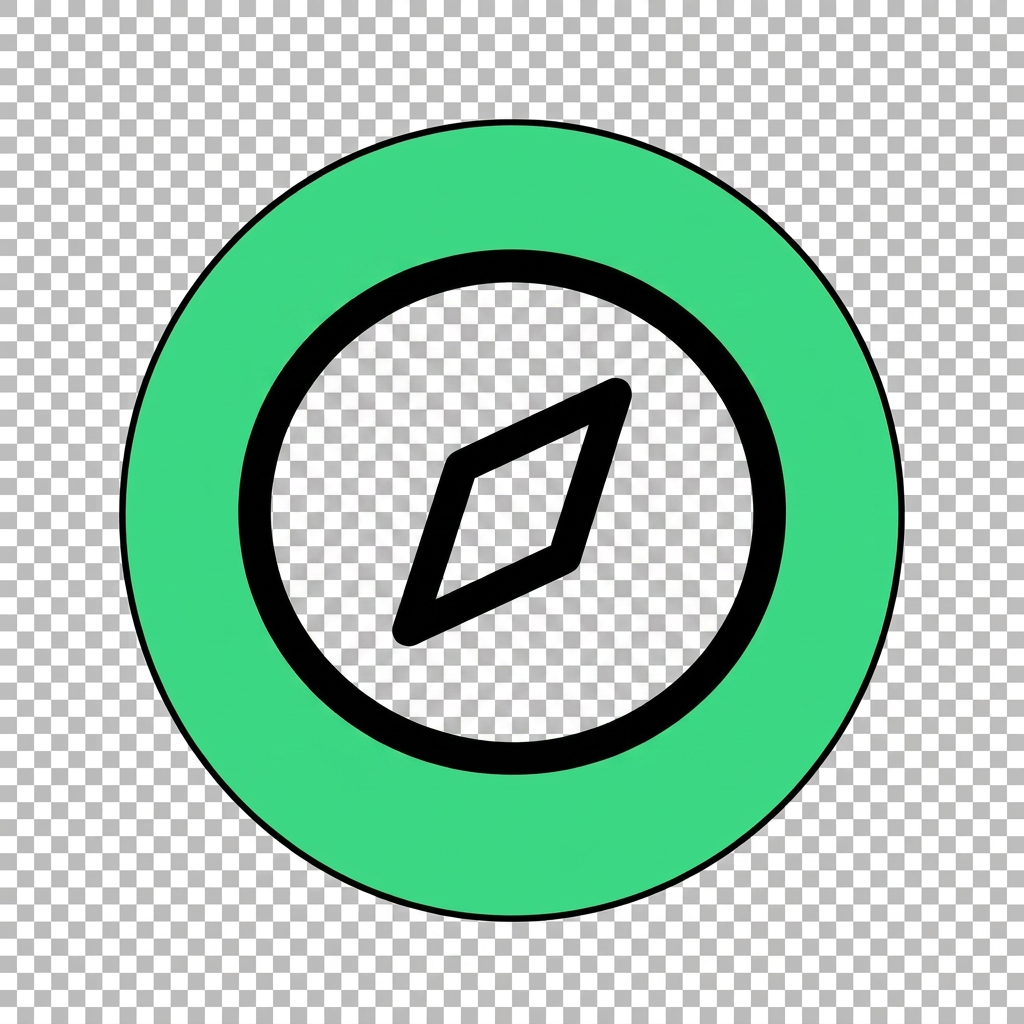
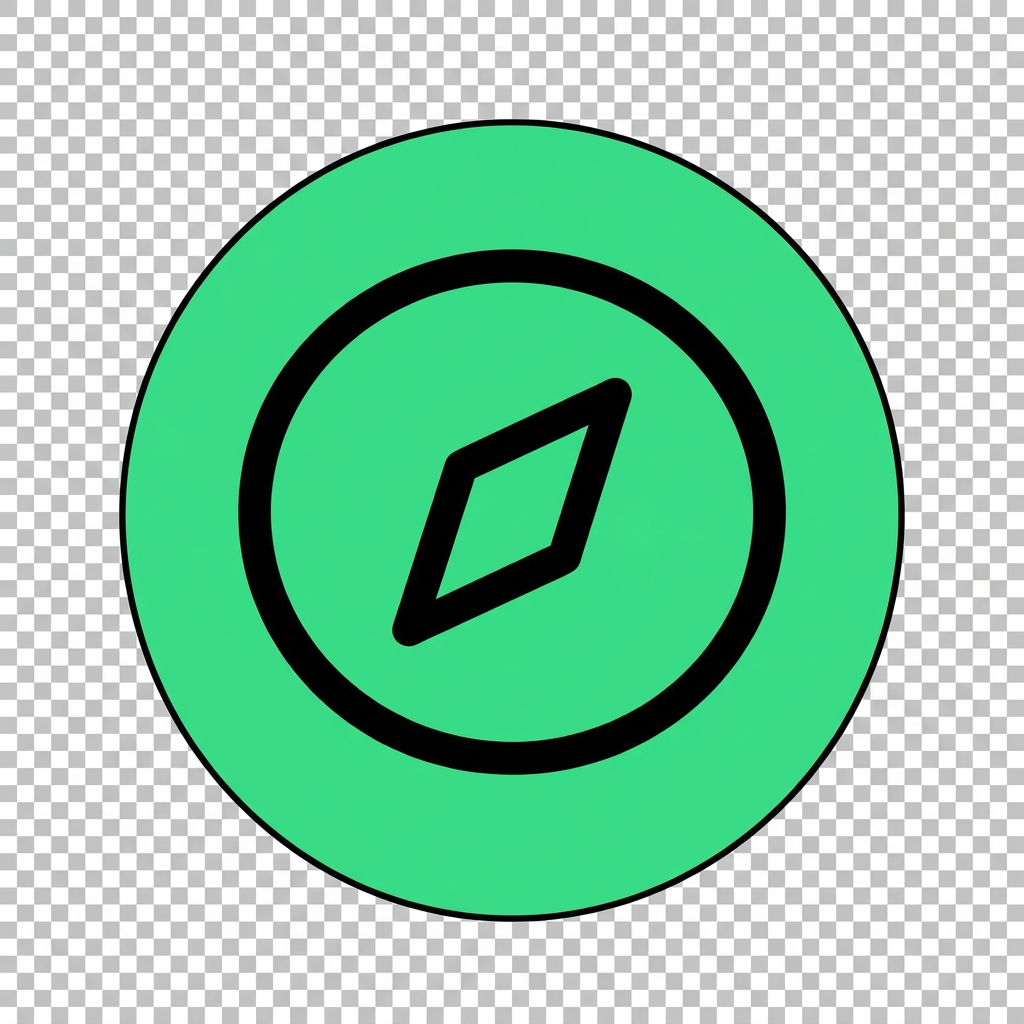
Reverted to commit 467b236fa490180b3e9324907f51f79fa0c6cc78

Changed region(s): [[0.25, 0.25, 0.75, 0.75]]

diff --git a/src/styles.css b/src/styles.css
@@ -97,7 +97,7 @@
     z-index: 0;
     background-image:
       radial-gradient(ellipse at center, oklch(0.18 0.04 240 / 0.55) 0%, oklch(0.18 0.04 240 / 0.85) 55%, oklch(0.14 0.04 240 / 0.95) 100%),
-      linear-gradient(180deg, oklch(0.18 0.04 240) 0%, oklch(0.14 0.04 240) 100%);
+      url("/compass-bg.png");
     background-repeat: no-repeat, no-repeat;
     background-position: center, center;
     background-size: cover, min(85vmin, 900px) min(85vmin, 900px);
